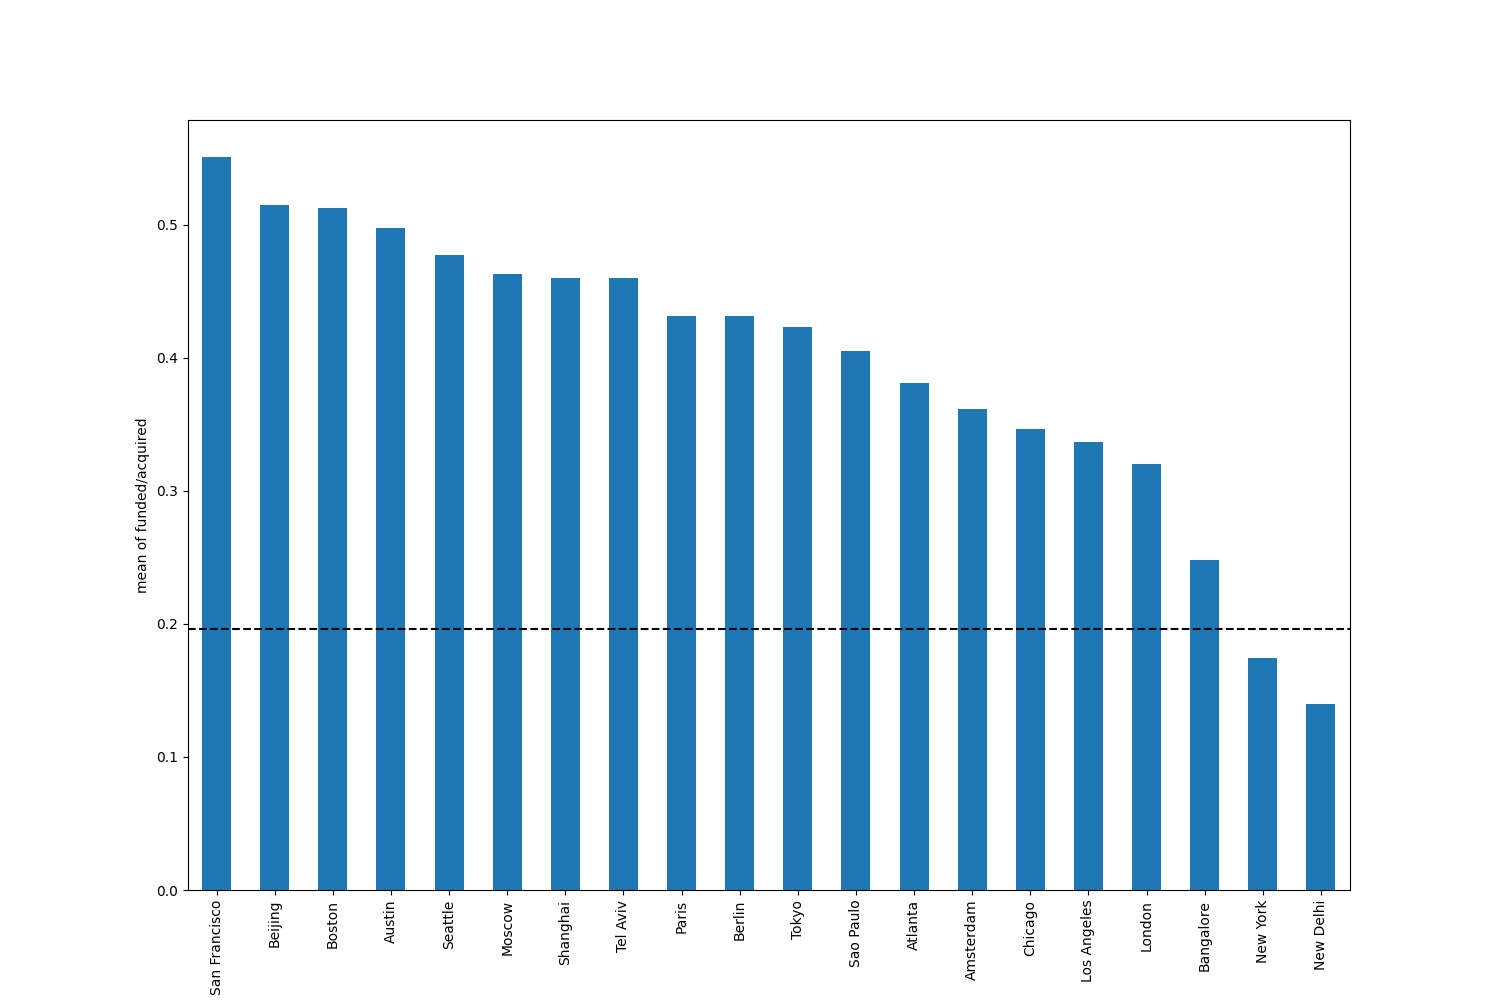
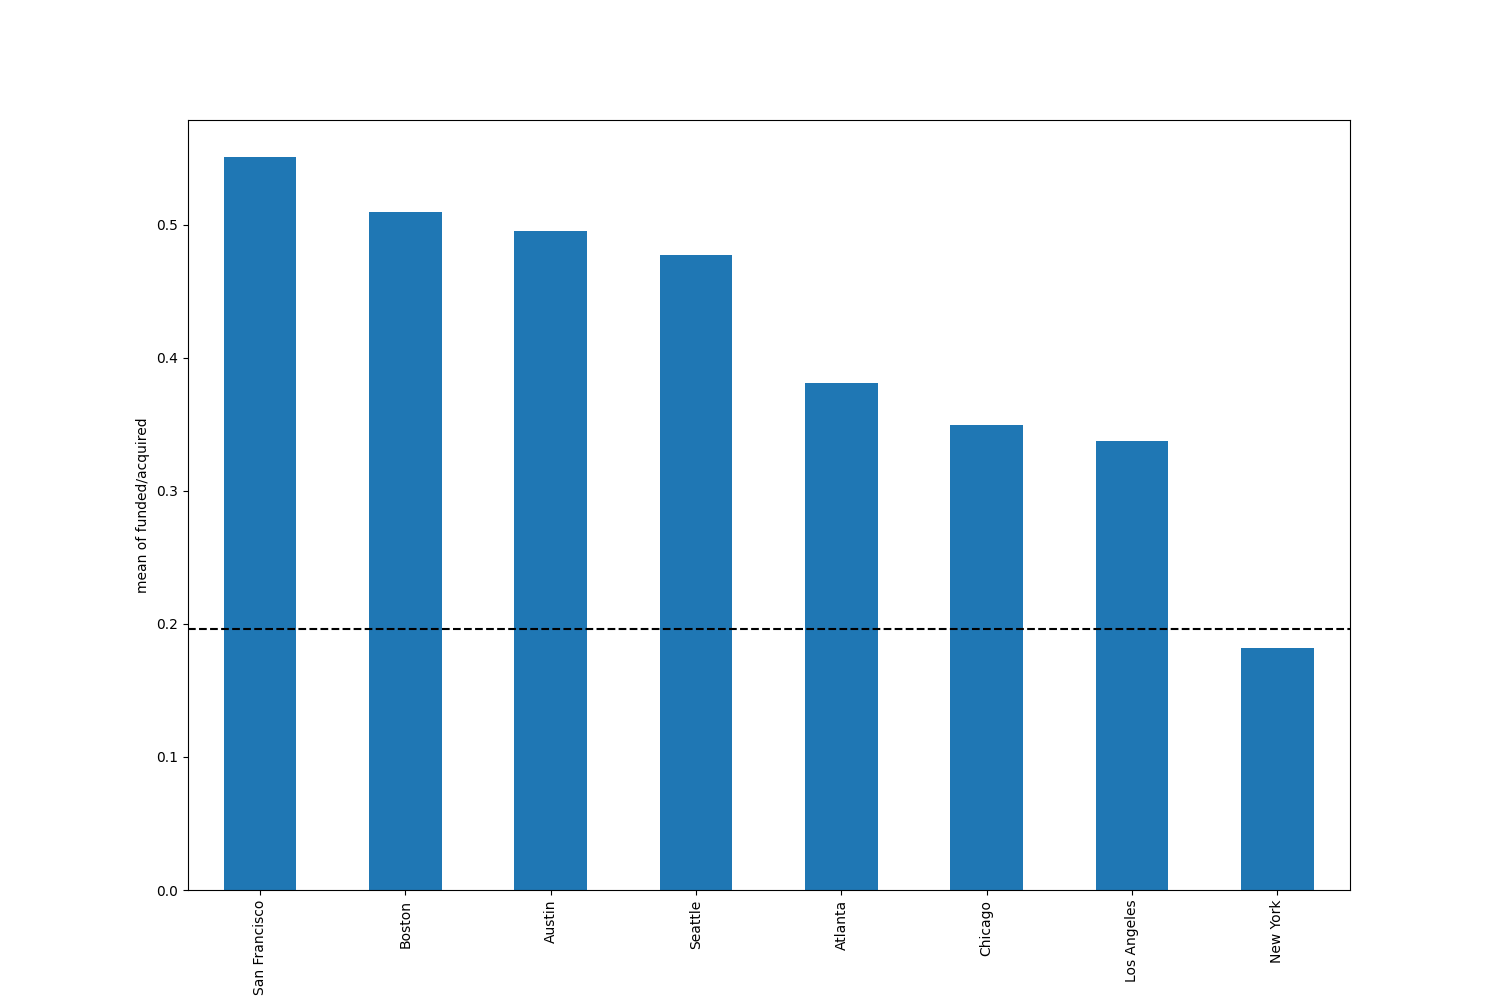
improved improved statistics

Changed region(s): [[0.1227, 0.155, 0.8893, 0.961]]

diff --git a/model.py b/model.py
@@ -12,6 +12,8 @@ from sklearn.svm import SVC
 from sklearn.utils import resample
 from sklearn.metrics import accuracy_score, confusion_matrix, classification_report
 import pickle
+import seaborn as sns
+
 
 
 def gender():
@@ -175,6 +177,8 @@ def model_dt(data):
     print("confusion matrix")
     print(confusion_matrix(Y_train, predictions2))
 
+    return accuracy_score(Y_validation, predictions)
+
 def model_gauss(data):
     X = data.loc[:, data.columns != 'funded_or_acquired']
     y = data.loc[:, 'funded_or_acquired']
@@ -192,13 +196,15 @@ def model_gauss(data):
 
 
     print("checking on training data:")
-    model2 = DecisionTreeClassifier()
+    model2 = GaussianNB()
     model2.fit(X_train, Y_train)
     predictions2 = model2.predict(X_train)
     print("accuracy_score (training): "+ str(accuracy_score(Y_train, predictions2)))
 
     print("confusion matrix")
     print(confusion_matrix(Y_train, predictions2))
+
+    return accuracy_score(Y_validation, predictions)
 
 def model_linear(data):
     X = data.loc[:, data.columns != 'funded_or_acquired']
@@ -217,7 +223,7 @@ def model_linear(data):
 
 
     print("checking on training data:")
-    model2 = DecisionTreeClassifier()
+    model2 = LogisticRegression(solver='liblinear', multi_class='ovr')
     model2.fit(X_train, Y_train)
     predictions2 = model2.predict(X_train)
     print("accuracy_score (training): "+ str(accuracy_score(Y_train, predictions2)))
@@ -225,7 +231,7 @@ def model_linear(data):
     print("confusion matrix")
     print(confusion_matrix(Y_train, predictions2))
 
-    return model
+    return accuracy_score(Y_validation, predictions)
 
 def model_SVC(data):
     X = data.loc[:, data.columns != 'funded_or_acquired']
@@ -245,13 +251,15 @@ def model_SVC(data):
 
 
     print("checking on training data:")
-    model2 = DecisionTreeClassifier()
+    model2 = SVC(gamma='auto')
     model2.fit(X_train, Y_train)
     predictions2 = model2.predict(X_train)
     print("accuracy_score (training): "+ str(accuracy_score(Y_train, predictions2)))
 
     print("confusion matrix")
     print(confusion_matrix(Y_train, predictions2))
+
+    return accuracy_score(Y_validation, predictions)
 
 def upsample_data(data):
     #from: https://elitedatascience.com/imbalanced-classes
@@ -319,18 +327,23 @@ data_downsampled = downsample_data(data)
 
 print("---")
 print("Decision Tree:")
-model_dt(data_downsampled)
-#print("---")
-#print("GaussianNB:")
-#model_gauss(data_downsampled)
-#print("---")
-#print("LogisticRegression:")
-#m = model_linear(data_downsampled)
-#print("---")
-#print("SVC:")
-#model_SVC(data_downsampled)
+acc_dt = model_dt(data_downsampled)
+print("---")
+print("GaussianNB:")
+acc_gauss = model_gauss(data_downsampled)
+print("---")
+print("LogisticRegression:")
+acc_linear = model_linear(data_downsampled)
+print("---")
+print("SVC:")
+acc_SVC = model_SVC(data_downsampled)
 
-
+d = {'algorithms': ["Decision Tree", "GaussianNB", "LogisticRegression", "SVC"], 'accuracy': [acc_dt, acc_gauss, acc_linear, acc_SVC]}
+accuracies = pd.DataFrame(data=d)
+ax = sns.barplot(x=accuracies['algorithms'], y=accuracies['accuracy'], color='tab:blue')
+pyplot.axhline(y=0.5, color='k', linestyle='--')
+#accuracies.plot.bar()
+pyplot.show()
 
 #data.to_csv('data.csv')
 

diff --git a/analyze_dataset.py b/analyze_dataset.py
@@ -64,6 +64,9 @@ countries_undummied_analysis = analyze('countries', countries_undummied)
 cities_undummied = undummy(['New York','San Francisco','London','Chicago','Los Angeles','Paris','Seattle','Austin','Boston','Atlanta','Bangalore','Berlin','Tokyo','New Delhi','Amsterdam','Beijing','Moscow','Shanghai','Tel Aviv','Sao Paulo'], model_data, 'cities')
 cities_undummied_analysis = analyze('cities', cities_undummied)
 
+cities_USA_undummied = undummy(['New York','San Francisco','Chicago','Los Angeles','Seattle','Austin','Boston','Atlanta'], model_data, 'cities')
+cities_USA_undummied_analysis = analyze('cities', cities_USA_undummied)
+
 domain_ending_undummied = undummy(['domain_ending_Other','domain_ending_biz','domain_ending_ca','domain_ending_co','domain_ending_com','domain_ending_de','domain_ending_es','domain_ending_eu','domain_ending_fr','domain_ending_ie','domain_ending_in','domain_ending_io','domain_ending_it','domain_ending_me','domain_ending_net','domain_ending_nl','domain_ending_org','domain_ending_ru','domain_ending_se','domain_ending_tv','domain_ending_us'], model_data, 'domain_ending')
 domain_ending_undummied_analysis = analyze('domain_ending', domain_ending_undummied)
 
